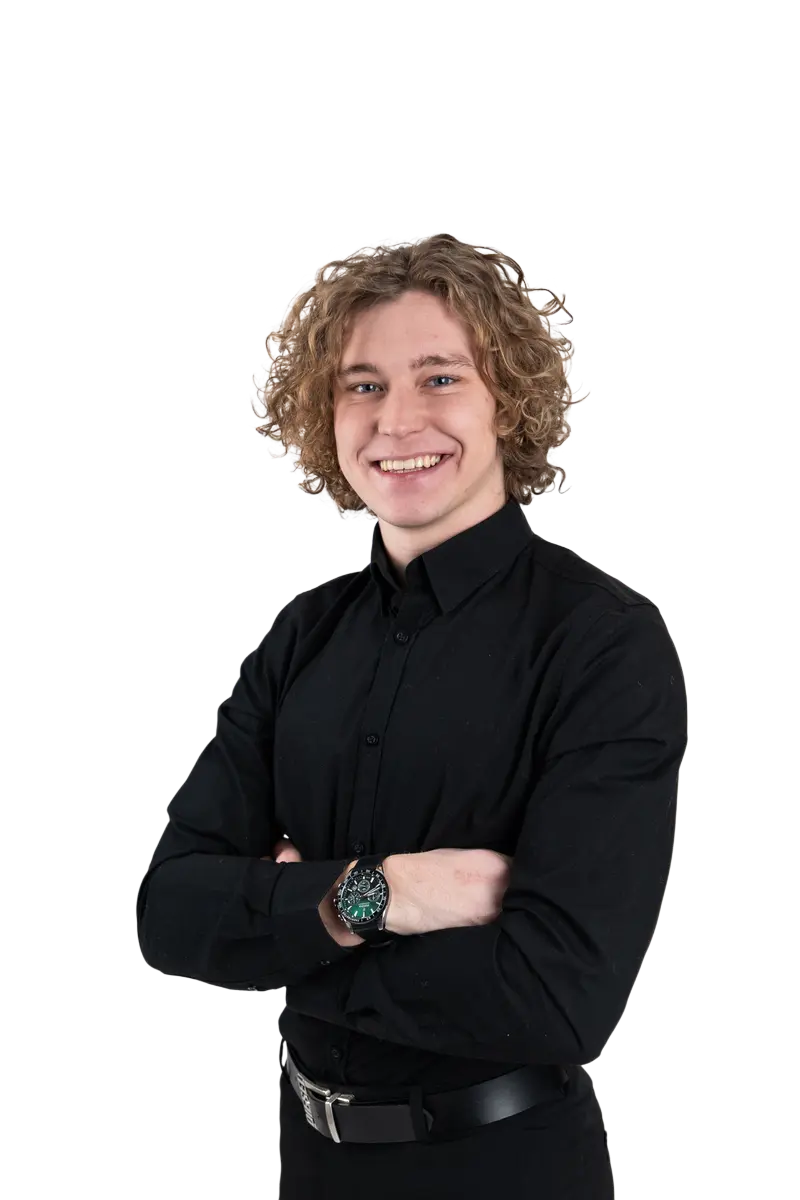
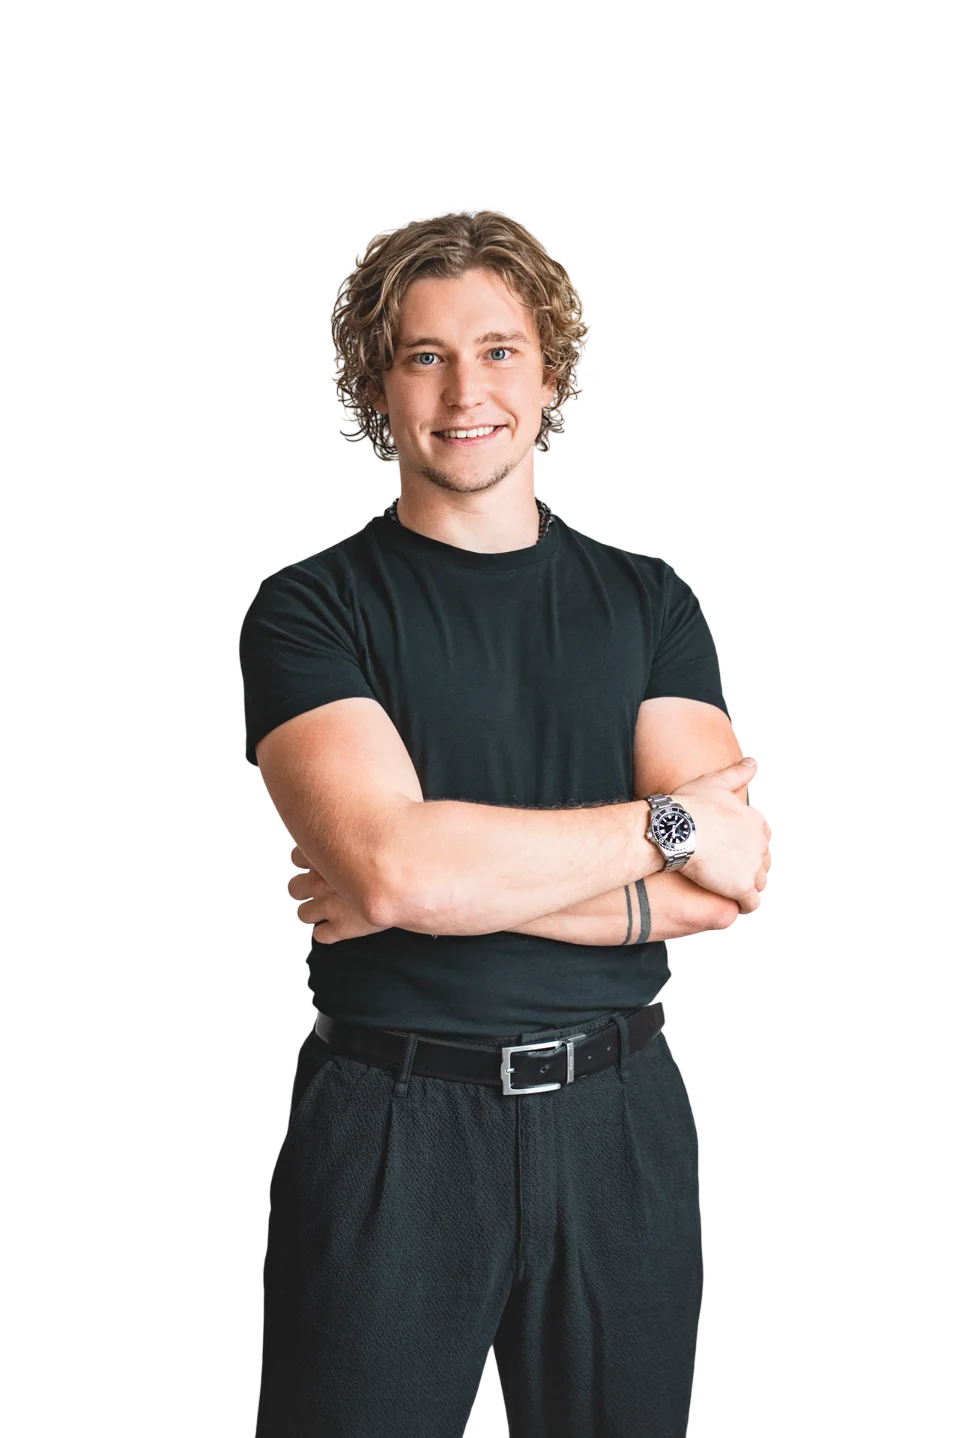
feat: nahrazeni fotek Radka novymi z public/imgaes/best ones rv2
- hero (desktop i mobil): pruhledne PNG SPA09424 (zkrižene ruce) jako webp
- O mne: SPA09201 (u stolu s notebookem)
- stranky sluzeb: SPA09269 (usmev u notebooku)
- profil makleře: SPA09045 (stojici, ruce v kapsach)
- autorsky box v clancich: ctvercovy vyrez hlavy z SPA09045 (8 KB misto 745 KB PNG)
- mobilni hero: jmeno posunuto vys, aby ho nepřekryval oblicej

Claude-Session: https://claude.ai/code/session_0113B43KjD42nkV5aVSeD6NM

diff --git a/src/components/services/ServicePage.tsx b/src/components/services/ServicePage.tsx
@@ -8,7 +8,7 @@ import { services, SITE_URL, type ServiceContent } from '@/data/services';
 import { setPageMeta } from '@/lib/seo';
 import { getServiceSchema, serializeJsonLd } from '@/lib/service-seo';
 import { trackServiceEvent } from '@/lib/service-tracking';
-import aboutImage from '@/assets/radek-about.jpg';
+import aboutImage from '@/assets/radek-service.webp';
 import saleTynec from '@/assets/services/property-dum-tynec-nad-sazavou.jpg';
 import saleBrodska from '@/assets/services/property-byt-brodska-pribram.jpg';
 import saleZdabor from '@/assets/services/property-byt-zdabor-slunna-pribram.jpg';
@@ -150,7 +150,7 @@ export default function ServicePage({ service }: { service: ServiceContent }) {
 
         <section className="service-section border-y border-border" aria-labelledby="local-heading">
           <div className="service-container grid items-center gap-9 lg:grid-cols-12 lg:gap-14">
-            <div className="lg:col-span-5"><img src={aboutImage} alt="Radek Větrovský, realitní makléř RE/MAX Power 2" width={800} height={900} loading="lazy" className="aspect-[4/3] w-full rounded-2xl object-cover sm:rounded-3xl lg:aspect-[4/5]" /></div>
+            <div className="lg:col-span-5"><img src={aboutImage} alt="Radek Větrovský, realitní makléř RE/MAX Power 2" width={800} height={900} loading="lazy" className="aspect-[4/3] w-full rounded-2xl object-cover object-[center_20%] sm:rounded-3xl lg:aspect-[4/5]" /></div>
             <div className="lg:col-span-7"><h2 id="local-heading" className="service-heading">Místní znalost. Osobní spolupráce.</h2><p className="mt-6 text-lg font-bold">Radek Větrovský · RE/MAX Power 2</p><p className="mt-4 leading-relaxed text-muted-foreground">{service.localText}</p><p className="mt-4 leading-relaxed text-muted-foreground">Od první konzultace máte přímý kontakt na člověka, který Vaši situaci zná. Rozsah spolupráce, odměnu i další postup si ujasníme předem.</p><Link to="/radek-vetrovsky-realitni-makler-pribram" className="mt-5 inline-flex min-h-11 items-center gap-2 font-bold text-primary hover:underline">Více o mně <ArrowUpRight className="h-4 w-4" aria-hidden="true" /></Link></div>
           </div>
         </section>

diff --git a/src/pages/RadekVetrovskyPribram.tsx b/src/pages/RadekVetrovskyPribram.tsx
@@ -2,7 +2,7 @@ import React, { useEffect } from 'react';
 import Header from '@/components/Header';
 import Footer from '@/components/Footer';
 import FloatingCTA from '@/components/FloatingCTA';
-import radekPhoto from '@/assets/radek-vetrovsky.png';
+import radekPhoto from '@/assets/radek-profil.webp';
 import { setPageMeta } from '@/lib/seo';
 
 const RadekVetrovskyPribram = () => {
@@ -81,7 +81,7 @@ const RadekVetrovskyPribram = () => {
                                     <img
                                         src={radekPhoto}
                                         alt="Radek Větrovský - realitní makléř v Příbrami"
-                                        className="w-full h-full object-cover object-bottom"
+                                        className="w-full h-full object-cover object-center"
                                     />
                                     <div className="absolute inset-0 bg-gradient-to-t from-black/60 via-transparent to-transparent"></div>
                                     <div className="absolute bottom-0 left-0 right-0 p-6 text-white">

diff --git a/src/pages/BlogRezervaceUschova.tsx b/src/pages/BlogRezervaceUschova.tsx
@@ -3,7 +3,7 @@ import { motion } from 'framer-motion';
 import { ArrowLeft, Calendar, Clock, Phone, Mail, Globe, ChevronDown, ArrowRight, KeyRound, ShieldAlert } from 'lucide-react';
 import { Link } from 'react-router-dom';
 import { setPageMeta, injectJsonLd } from '@/lib/seo';
-import radekPhoto from '@/assets/radek-vetrovsky.png';
+import radekPhoto from '@/assets/radek-avatar.webp';
 
 const heroImage = 'https://images.unsplash.com/photo-1643804926339-e94f0a655185?w=1200&h=800&fit=crop&q=80';
 const signingImage = 'https://images.unsplash.com/photo-1764231467852-b609a742e082?w=1200&h=800&fit=crop&q=80';

diff --git a/src/components/HeroMobile.tsx b/src/components/HeroMobile.tsx
@@ -46,7 +46,7 @@ const HeroMobile = () => {
         className="pointer-events-none absolute inset-0 z-10 flex items-center justify-start px-5 sm:px-8 select-none"
         aria-hidden="true"
       >
-        <div className="flex flex-col items-start leading-[0.88] tracking-[-0.03em] -translate-y-12">
+        <div className="flex flex-col items-start leading-[0.88] tracking-[-0.03em] -translate-y-36">
           <span className="font-syne text-[2.4rem] sm:text-[3.2rem] font-extrabold uppercase text-white/90 drop-shadow-[0_4px_12px_rgba(0,0,0,0.5)]">
             RADEK
           </span>

diff --git a/src/pages/BlogKatastr.tsx b/src/pages/BlogKatastr.tsx
@@ -3,7 +3,7 @@ import { motion } from 'framer-motion';
 import { ArrowLeft, Calendar, Clock, Phone, Mail, Globe, ChevronDown, ArrowRight, ShieldCheck, Lock, Unlock, Landmark, Smartphone, KeyRound } from 'lucide-react';
 import { Link } from 'react-router-dom';
 import { setPageMeta, injectJsonLd } from '@/lib/seo';
-import radekPhoto from '@/assets/radek-vetrovsky.png';
+import radekPhoto from '@/assets/radek-avatar.webp';
 
 const heroImage = 'https://images.unsplash.com/photo-1763729805496-b5dbf7f00c79?w=1200&h=800&fit=crop&q=80';
 

diff --git a/src/pages/BlogPenb.tsx b/src/pages/BlogPenb.tsx
@@ -3,7 +3,7 @@ import { motion } from 'framer-motion';
 import { ArrowLeft, Calendar, Clock, Phone, Mail, Globe, ChevronDown, ArrowRight } from 'lucide-react';
 import { Link } from 'react-router-dom';
 import { setPageMeta, injectJsonLd } from '@/lib/seo';
-import radekPhoto from '@/assets/radek-vetrovsky.png';
+import radekPhoto from '@/assets/radek-avatar.webp';
 const heroImage = 'https://www.panfitinka.cz/storage/app/media/blog/pasivni%20vs%20nizkoen/trida_energeticke_narocnosti.png';
 
 const PUBLISHED = '2026-07-02';

diff --git a/src/pages/BlogProdejGarsonky.tsx b/src/pages/BlogProdejGarsonky.tsx
@@ -3,7 +3,7 @@ import { motion } from 'framer-motion';
 import { ArrowLeft, Calendar, Clock, Phone, Mail, Globe, ChevronDown, ArrowRight, Home, Building2, TrendingUp, Percent, KeyRound } from 'lucide-react';
 import { Link } from 'react-router-dom';
 import { setPageMeta, injectJsonLd } from '@/lib/seo';
-import radekPhoto from '@/assets/radek-vetrovsky.png';
+import radekPhoto from '@/assets/radek-avatar.webp';
 
 const heroImage = 'https://images.unsplash.com/photo-1502672260266-1c1ef2d93688?w=1200&h=800&fit=crop&q=80';
 

diff --git a/src/pages/BlogKolikSiMuzuDovolit.tsx b/src/pages/BlogKolikSiMuzuDovolit.tsx
@@ -3,7 +3,7 @@ import { motion } from 'framer-motion';
 import { ArrowLeft, Calendar, Clock, Phone, Mail, Globe, ChevronDown, ArrowRight, Percent, Landmark, CalendarClock, Calculator } from 'lucide-react';
 import { Link } from 'react-router-dom';
 import { setPageMeta, injectJsonLd } from '@/lib/seo';
-import radekPhoto from '@/assets/radek-vetrovsky.png';
+import radekPhoto from '@/assets/radek-avatar.webp';
 
 const heroImage = 'https://images.unsplash.com/photo-1554224155-1696413565d3?w=1200&h=800&fit=crop&q=80';
 

diff --git a/src/pages/BlogHypotecniSazby.tsx b/src/pages/BlogHypotecniSazby.tsx
@@ -3,7 +3,7 @@ import { motion } from 'framer-motion';
 import { ArrowLeft, Calendar, Clock, Phone, Mail, Globe, ChevronDown, ArrowRight, Percent, TrendingUp, Landmark, RefreshCw } from 'lucide-react';
 import { Link } from 'react-router-dom';
 import { setPageMeta, injectJsonLd } from '@/lib/seo';
-import radekPhoto from '@/assets/radek-vetrovsky.png';
+import radekPhoto from '@/assets/radek-avatar.webp';
 
 const heroImage = 'https://images.unsplash.com/photo-1768839720586-71b7ff8b5c59?w=1200&h=800&fit=crop&q=80';
 

diff --git a/src/pages/BlogPronajem.tsx b/src/pages/BlogPronajem.tsx
@@ -3,7 +3,7 @@ import { motion } from 'framer-motion';
 import { ArrowLeft, Calendar, Clock, Phone, Mail, Globe, ChevronDown, ArrowRight, KeyRound, UserCheck, UserX } from 'lucide-react';
 import { Link } from 'react-router-dom';
 import { setPageMeta, injectJsonLd } from '@/lib/seo';
-import radekPhoto from '@/assets/radek-vetrovsky.png';
+import radekPhoto from '@/assets/radek-avatar.webp';
 
 const heroImage = 'https://images.unsplash.com/photo-1722487631997-cf1e0f92c2c4?w=1200&h=800&fit=crop&q=80';
 

diff --git a/src/pages/BlogDanZNemovitosti.tsx b/src/pages/BlogDanZNemovitosti.tsx
@@ -3,7 +3,7 @@ import { motion } from 'framer-motion';
 import { ArrowLeft, Calendar, Clock, Phone, Mail, Globe, ChevronDown, ArrowRight, Landmark, Repeat, Receipt } from 'lucide-react';
 import { Link } from 'react-router-dom';
 import { setPageMeta, injectJsonLd } from '@/lib/seo';
-import radekPhoto from '@/assets/radek-vetrovsky.png';
+import radekPhoto from '@/assets/radek-avatar.webp';
 
 const heroImage = 'https://images.unsplash.com/photo-1642043175009-5997b3a078d8?w=1200&h=800&fit=crop&q=80';
 

diff --git a/src/pages/BlogNaCoPozorKoupe.tsx b/src/pages/BlogNaCoPozorKoupe.tsx
@@ -3,7 +3,7 @@ import { motion } from 'framer-motion';
 import { ArrowLeft, Calendar, Clock, Phone, Mail, Globe, ChevronDown, ArrowRight, Home, Building2, ShieldCheck } from 'lucide-react';
 import { Link } from 'react-router-dom';
 import { setPageMeta, injectJsonLd } from '@/lib/seo';
-import radekPhoto from '@/assets/radek-vetrovsky.png';
+import radekPhoto from '@/assets/radek-avatar.webp';
 
 const heroImage = 'https://images.unsplash.com/photo-1560518883-ce09059eeffa?w=1200&h=800&fit=crop&q=80';
 
